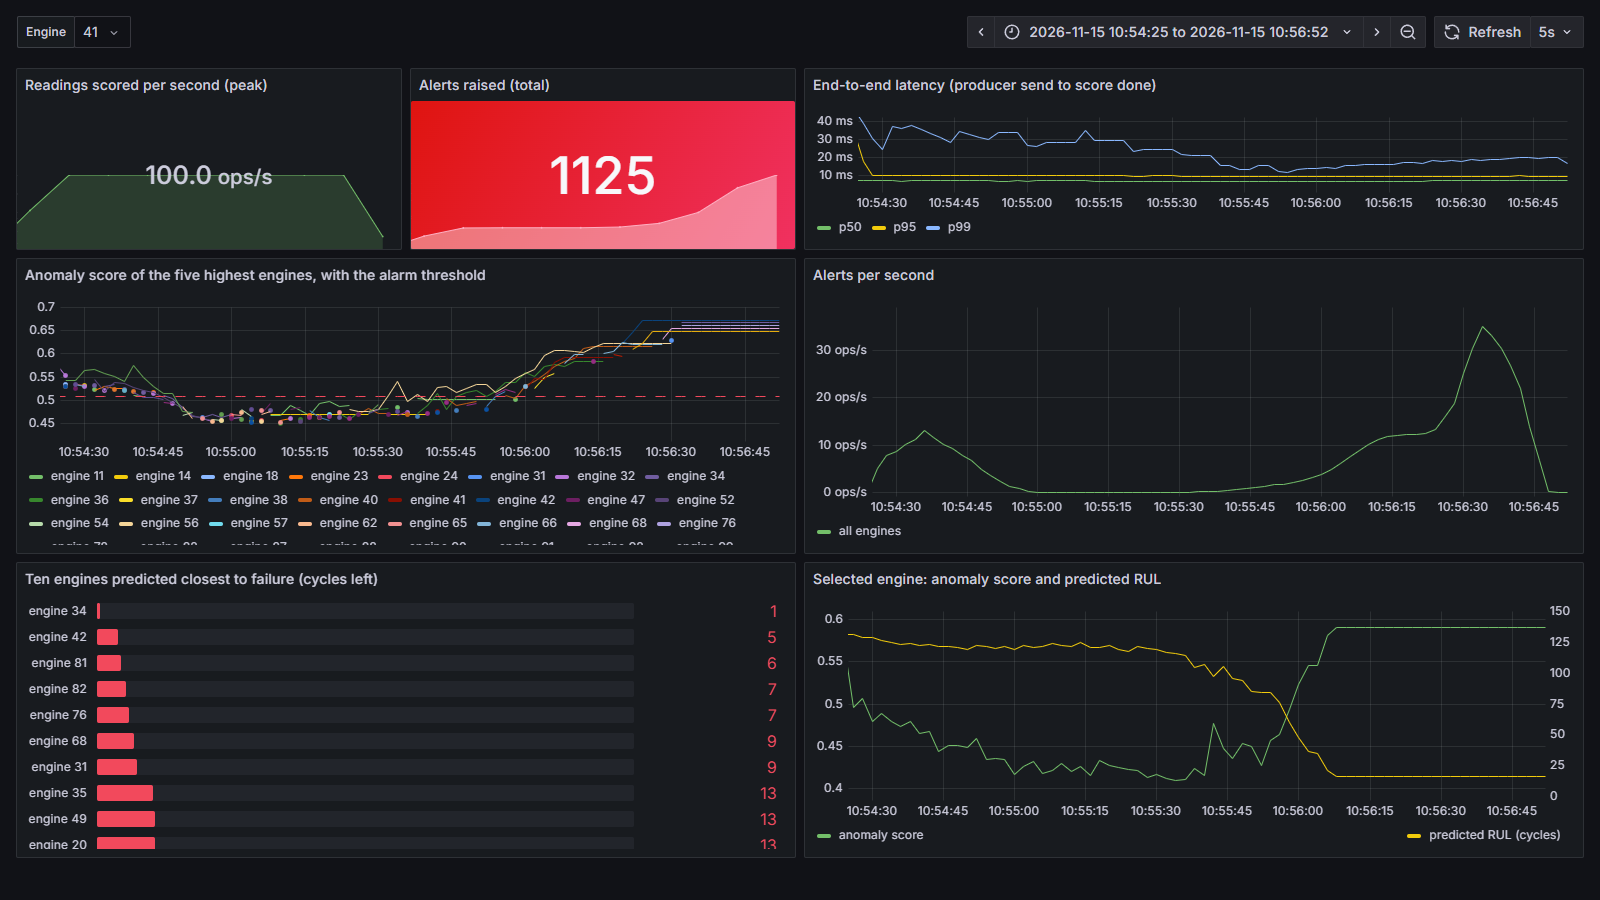
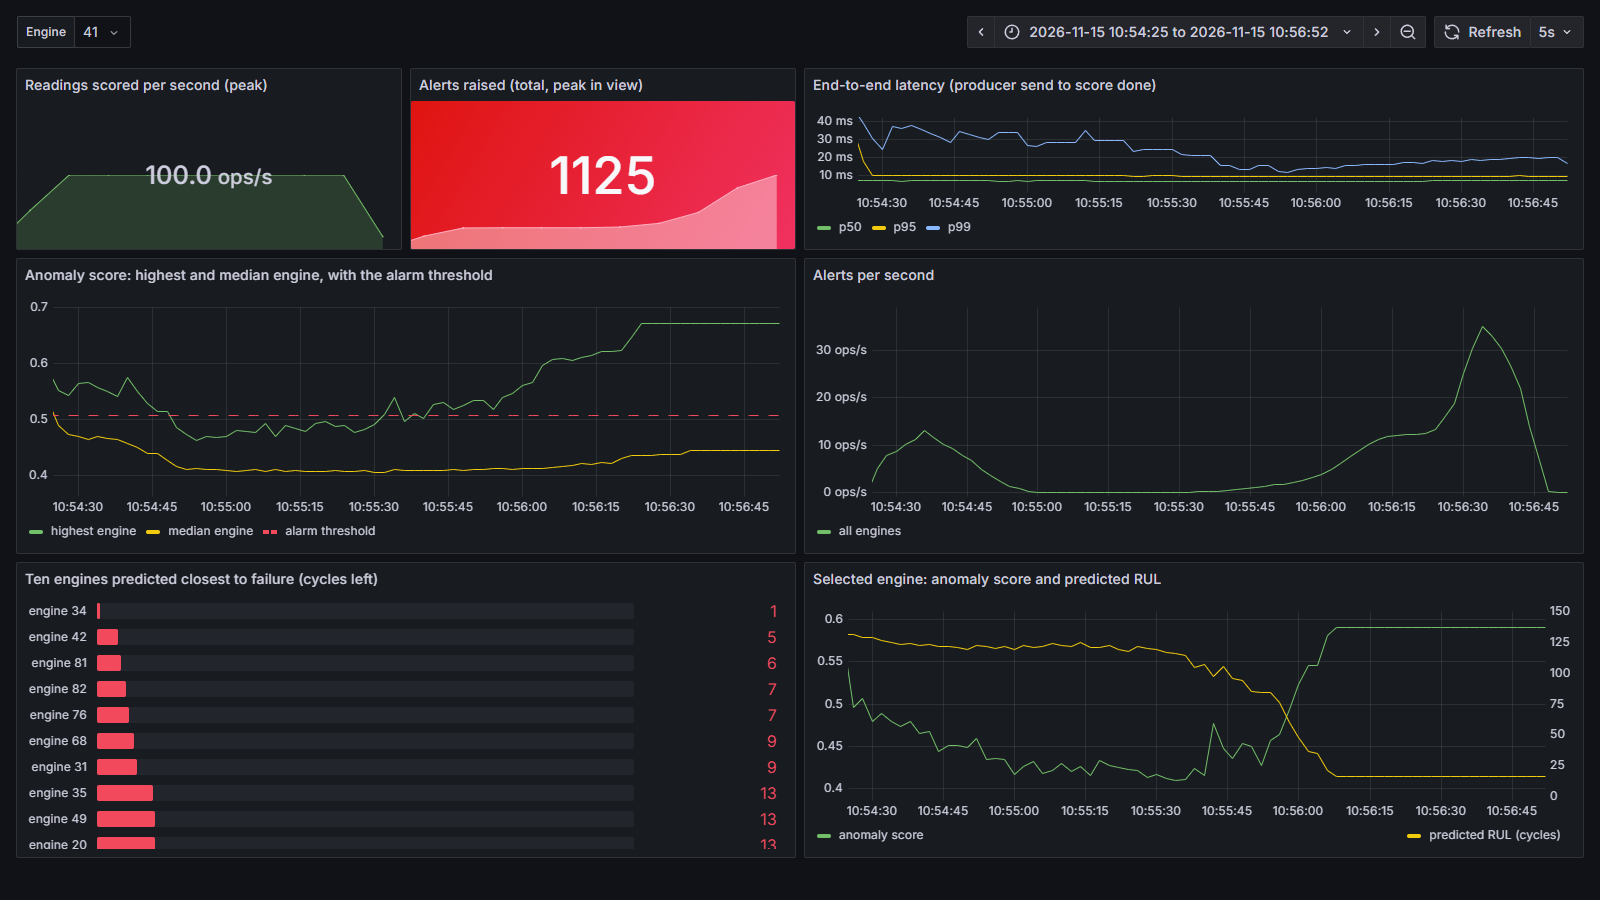
Fix consumer idle and start offset, check producer delivery, correct M5 results and dashboard

diff --git a/src/sensor_edge/stream_consumer.py b/src/sensor_edge/stream_consumer.py
@@ -61,8 +61,9 @@ def run_consumer(
 
     Starts from the newest offset, so start this before the producer. Prints READY
     once Kafka has assigned the topic, which is when it is safe to start the producer.
+    Stops with an error if no message arrives within `idle_seconds` of starting.
     """
-    from confluent_kafka import Consumer, Producer
+    from confluent_kafka import OFFSET_END, Consumer, Producer
     from prometheus_client import start_http_server
 
     bundle = load_bundle(bundle_dir)
@@ -80,18 +81,25 @@ def run_consumer(
         }
     )
     alert_producer = Producer({"bootstrap.servers": brokers})
-    consumer.subscribe([topic])
+    def start_at_newest_offset(assigned_consumer, partitions):
+        """Begin at the end of the log once the topic is assigned, then say we are ready.
+
+        Setting the offset here means no reading sent after READY can be skipped.
+        """
+        for partition in partitions:
+            partition.offset = OFFSET_END
+        assigned_consumer.assign(partitions)
+        print("READY", flush=True)
+
+    consumer.subscribe([topic], on_assign=start_at_newest_offset)
 
     end_to_end, scoring = [], []
-    ready_announced = False
     first_message_at = last_message_at = None
+    last_activity = time.time()  # the start, until the first message arrives
     while max_messages is None or len(end_to_end) < max_messages:
         message = consumer.poll(0.5)
-        if not ready_announced and consumer.assignment():
-            print("READY", flush=True)
-            ready_announced = True
         if message is None or message.error():
-            if last_message_at and time.time() - last_message_at > idle_seconds:
+            if time.time() - last_activity > idle_seconds:
                 break
             continue
 
@@ -103,7 +111,7 @@ def run_consumer(
         end_to_end.append(finished_at - reading["sent_ts"])
         scoring.append(finished_at - received_at)
         first_message_at = first_message_at or received_at
-        last_message_at = finished_at
+        last_message_at = last_activity = finished_at
 
         unit = str(result.unit)
         metrics["scored"].inc()

diff --git a/src/sensor_edge/stream_producer.py b/src/sensor_edge/stream_producer.py
@@ -10,6 +10,7 @@ import pandas as pd
 from sensor_edge.data import COLUMN_NAMES
 
 DEFAULT_TOPIC = "sensor-readings"
+FLUSH_TIMEOUT_S = 30.0
 
 
 @dataclass(frozen=True)
@@ -61,21 +62,36 @@ def run_producer(
     """Send readings to `topic` at `rate` per second (0 means as fast as possible).
 
     Each message carries `sent_ts`, the wall clock time just before it was sent, so
-    the consumer can measure the end to end delay. Returns the number sent.
+    the consumer can measure the end to end delay. Returns the number of readings the
+    broker confirmed, and raises if any were not delivered.
     """
     from confluent_kafka import Producer
 
     producer = Producer({"bootstrap.servers": brokers, "linger.ms": 0})
+    delivered, failures = 0, []
+
+    def on_delivery(error, message):
+        nonlocal delivered
+        if error is None:
+            delivered += 1
+        else:
+            failures.append(str(error))
+
     start = time.time()
-    sent = 0
-    for reading in readings_from_frame(frame, faults):
-        if max_messages is not None and sent >= max_messages:
+    for queued, reading in enumerate(readings_from_frame(frame, faults)):
+        if max_messages is not None and queued >= max_messages:
             break
         if rate > 0:
-            time.sleep(max(0.0, due_time(start, sent, rate) - time.time()))
+            time.sleep(max(0.0, due_time(start, queued, rate) - time.time()))
         reading["sent_ts"] = time.time()
-        producer.produce(topic, key=str(reading["unit"]), value=json.dumps(reading))
+        producer.produce(
+            topic, key=str(reading["unit"]), value=json.dumps(reading), on_delivery=on_delivery
+        )
         producer.poll(0)
-        sent += 1
-    producer.flush()
-    return sent
+    still_queued = producer.flush(FLUSH_TIMEOUT_S)
+    if still_queued or failures:
+        raise RuntimeError(
+            f"{still_queued} readings were never delivered and {len(failures)} failed "
+            f"(first error: {failures[0] if failures else 'none'})"
+        )
+    return delivered

diff --git a/RESULTS.md b/RESULTS.md
@@ -157,7 +157,7 @@ Produced by `scripts/stream_demo.sh` (`make stream-demo`) on the FD001 test engi
 
 ![Grafana dashboard for the streaming demo](docs/grafana_dashboard.png)
 
-The screenshot is the third run, taken over a window that covers only that run (about 2.5 minutes). The panels show the scoring rate, the running count of alerts, end-to-end latency percentiles, the anomaly scores of the five highest engines against the alarm threshold, alerts per second, the ten engines predicted closest to failure, and the anomaly score and predicted RUL of a selected engine (engine 41 here).
+The screenshot is the third run, taken over a window that covers only that run (about 2.5 minutes). The panels show the scoring rate, the running count of alerts, end-to-end latency percentiles, the anomaly score of the highest and the median engine against the alarm threshold, alerts per second, the ten engines predicted closest to failure, and the anomaly score and predicted RUL of a selected engine (engine 41 here).
 
 ### End-to-end latency
 
@@ -169,26 +169,27 @@ End-to-end latency is the time from the producer's clock reading just before it 
 | 2, dashboard loaded for the first time during the run | 13096 | 100.1 | 5.55 | 24.24 | 707.64 | 778.8 | 4.46 | 7.16 | 15.17 |
 | 3, dashboard open | 13096 | 100.0 | 5.54 | 8.03 | 17.03 | 68.9 | 4.47 | 6.06 | 8.71 |
 
-- Every run kept up with the producer: all 13,096 readings were scored at 100 per second with no backlog.
+- Every run scored all 13,096 readings at the producer's pace of 100 per second on average. Run 2 had a temporary queue: a p99 of 708 ms means at least 131 readings waited more than 0.7 seconds.
 - The median end-to-end latency was 5.3 to 5.6 ms in all three runs. About 4.3 to 4.5 ms of that is scoring, so the Kafka send and receive path adds about 1 ms.
 - The tail varied between runs. Run 2 had a p99 of 708 ms, against 13 and 17 ms in the other two runs. During run 2 I loaded the dashboard for the first time and polled Prometheus, and I did not isolate the cause. The Grafana latency panel recorded the same spike, so the dashboard is showing real delays.
 - Scoring one reading costs about 4 ms in a single process, which was measured separately on 1,000 readings without Kafka at 3.95 ms. That puts the ceiling near 250 readings per second for one consumer, and the replay at 100 per second uses a little under half of it. Throughput at higher rates was not measured through Kafka.
 
 ### Alerts
 
-The replay raised 1,125 alerts over 13,096 readings (8.6 percent). The count was the same in the first and third runs. Using the official RUL file to work out how many cycles each reading was from failure, from the alerts topic of the first run:
+The replay raised 1,125 alerts over 13,096 readings (8.6 percent). The count was the same in the first and third runs. The table splits the readings by how far the engine really was from failure, using the official RUL file, and by whether the window was padded. A window is padded for the first 29 cycles of an engine, when fewer than 30 readings exist and the first reading is repeated to fill it. The counts come from the alerts topic of the first run.
 
-| True RUL at the reading | Readings | Alerts | Alert rate |
-|---|---|---|---|
-| 30 or less | 332 | 326 | 0.982 |
-| 31 to 125 | 4,812 | 475 | 0.099 |
-| over 125 | 7,952 | 324 | 0.041 |
+| True RUL at the reading | Window | Readings | Alerts | Alert rate |
+|---|---|---|---|---|
+| 30 or less | full | 332 | 326 | 0.982 |
+| 31 to 125 | full | 4,732 | 475 | 0.100 |
+| 31 to 125 | padded | 80 | 0 | 0.000 |
+| over 125 | full | 5,132 | 1 | 0.0002 |
+| over 125 | padded | 2,820 | 323 | 0.115 |
 
-The alerts follow wear. Almost every reading within 30 cycles of failure raises one, and the rate on healthy readings (4.1 percent) is close to the 5 percent the threshold was set for. This matches the M3 result that this detector is strong near failure.
+- The alerts that mean something follow wear. Almost every reading within 30 cycles of failure raises one (98 percent), and one reading in ten raises one in the 31 to 125 range, starting around cycle 70. On full windows of healthy readings the rate is 1 in 5,132, far below the 5 percent the threshold was set for.
+- Padded windows are the main source of false alarms. 323 of the 324 alerts on healthy readings (and 29 percent of all alerts) are in the first 29 cycles of an engine, and 93 of the 100 engines alert on their very first reading. A window made of one repeated reading looks unusual to the forest. The 4 percent alert rate over all healthy readings (padded and full windows together) is therefore mostly this start-up effect and not a sign that the threshold is calibrated. The threshold was set on validation windows that include padded ones (561 of 1,769), which probably explains why it is loose for full windows, but that was not tested. Holding back alerts until an engine has a full window of readings would remove these false alarms, and that was not done here.
 
-The alerts do not follow injected spikes. In the first run a spike of 8 standard deviations was planted in sensor 11 of engine 7 for cycles 100 to 105, and no alert was raised for engine 7 in cycles 100 to 114, the windows that contain it. A separate check scored engine 7 with spikes of 0, 8, 20, 50 and 100 standard deviations. The forest's anomaly score stayed at or below 0.434 in every case, under the threshold of 0.508. The spike does reach the scored window: for the 100 standard deviation case the sensor's normalised value in the window changes by about 42 units and no other column changes. A shift of 1000 units in one sensor's features gives the same forest score as 20 units (0.421), so the score saturates. This agrees with M3, where the isolation forest had low recall on injected spikes, and it means the streaming alerts cannot be relied on for sudden single-sensor faults. A detector with better recall on those, such as the autoencoder from M3, would need to be added to the consumer.
-
-The first alerts in the topic are cycle 1 readings of the first engines. A cycle 1 window is one reading repeated, which looks unusual to the forest. How many of the healthy-region alerts come from such padded windows was not measured.
+The alerts do not follow injected spikes. In the first run a spike of 8 standard deviations of the fleet's sensor 11 values was planted in engine 7 for cycles 100 to 105. No alert was raised for engine 7 anywhere in cycles 100 to 134, which are all the windows that contain the spike (its only alerts are at cycles 1 and 2). A separate check scored engine 7 with spikes of 0, 8, 20, 50 and 100 standard deviations, using the same scale as the run. The highest anomaly score in cycles 100 to 134 was 0.441 with no spike, 0.453 with the 8 standard deviation spike and 0.457 for the larger ones, all under the threshold of 0.508. The spike does reach the scored window: the normalised value of that sensor changes by up to 5.9 units for the 8 standard deviation spike and 73.9 for the 100 standard deviation spike, and no other column changes. Shifting the last three rows of one sensor by 20, 100 and 1000 normalised units gives the same forest score (0.421), so the score saturates. This agrees with M3, where the isolation forest had low recall on injected spikes, and it means these alerts cannot be relied on for sudden single-sensor faults. A detector with better recall on those, such as the autoencoder from M3, would need to be added to the consumer.
 
 ## Notes
 

diff --git a/README.md b/README.md
@@ -60,18 +60,18 @@ The FD001 test engines are replayed into a Redpanda topic at 100 readings per se
 
 ![Grafana dashboard for the streaming demo](docs/grafana_dashboard.png)
 
-End-to-end latency from the producer sending a reading to the consumer finishing its score had a median of 5.3 to 5.6 ms over three runs of the full replay, with a p99 of 13, 17 and 708 ms. The consumer kept up in every run. The alerts follow engine wear (98 percent of readings within 30 cycles of failure raise one) and do not catch a spike planted in a single sensor, which matches the weak spike recall of this detector in M3. [RESULTS.md](RESULTS.md) has the latency table for all three runs and the alert breakdown.
+End-to-end latency from the producer sending a reading to the consumer finishing its score had a median of 5.3 to 5.6 ms over three runs of the full replay, with a p99 of 13, 708 and 17 ms. Every run scored all readings at the producer's pace on average, but the run with the 708 ms tail had a temporary queue. The alerts follow engine wear (98 percent of readings within 30 cycles of failure raise one) and do not catch a spike planted in a single sensor, which matches the weak spike recall of this detector in M3. Most false alarms come from the first 29 cycles of each engine, when the window is padded, and they are not suppressed. [RESULTS.md](RESULTS.md) has the latency table for all three runs and the alert breakdown.
 
 To run it, start the stack, train the models, and run the demo. Grafana is at http://localhost:3300 and opens on the dashboard without a login. The host ports (3300, 9190, 19092) are chosen to avoid common local ports.
 
 ```
 make stream-up       # Redpanda, Prometheus and Grafana, plus the two topics
-make stream-models   # trains the CNN, the forest and the alarm threshold (needs torch)
+make stream-models   # trains the CNN, the forest and the alarm threshold (needs torch and the ONNX tools: pip install -e .[deep,edge])
 make stream-demo     # replays the engines and scores them live
 make stream-down
 ```
 
-The consumer and producer need `pip install -e .[stream]`. The consumer exposes metrics on port 8000, which Prometheus reaches as `host.docker.internal`. The demo runs one consumer on one partition, and the replay is recorded data and not live sensors.
+The consumer and producer need `pip install -e .[stream]`; training the models also needs `.[deep,edge]`. The consumer exposes metrics on port 8000, which Prometheus reaches as `host.docker.internal`. The demo runs one consumer on one partition, and the replay is recorded data and not live sensors.
 
 ## Results
 
